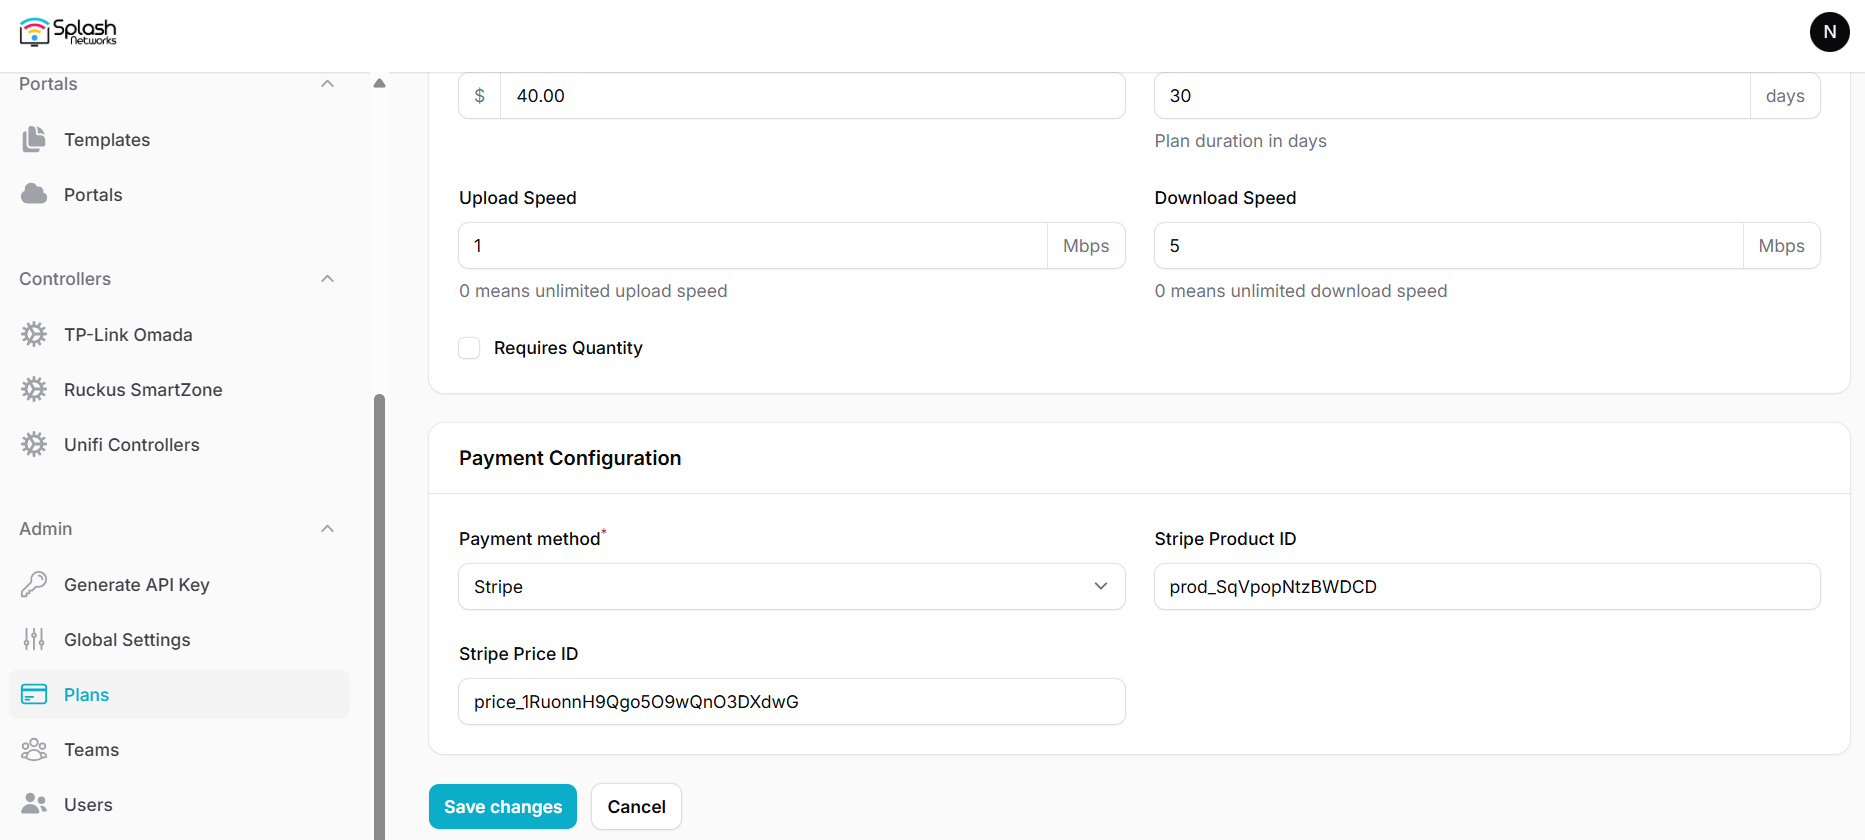
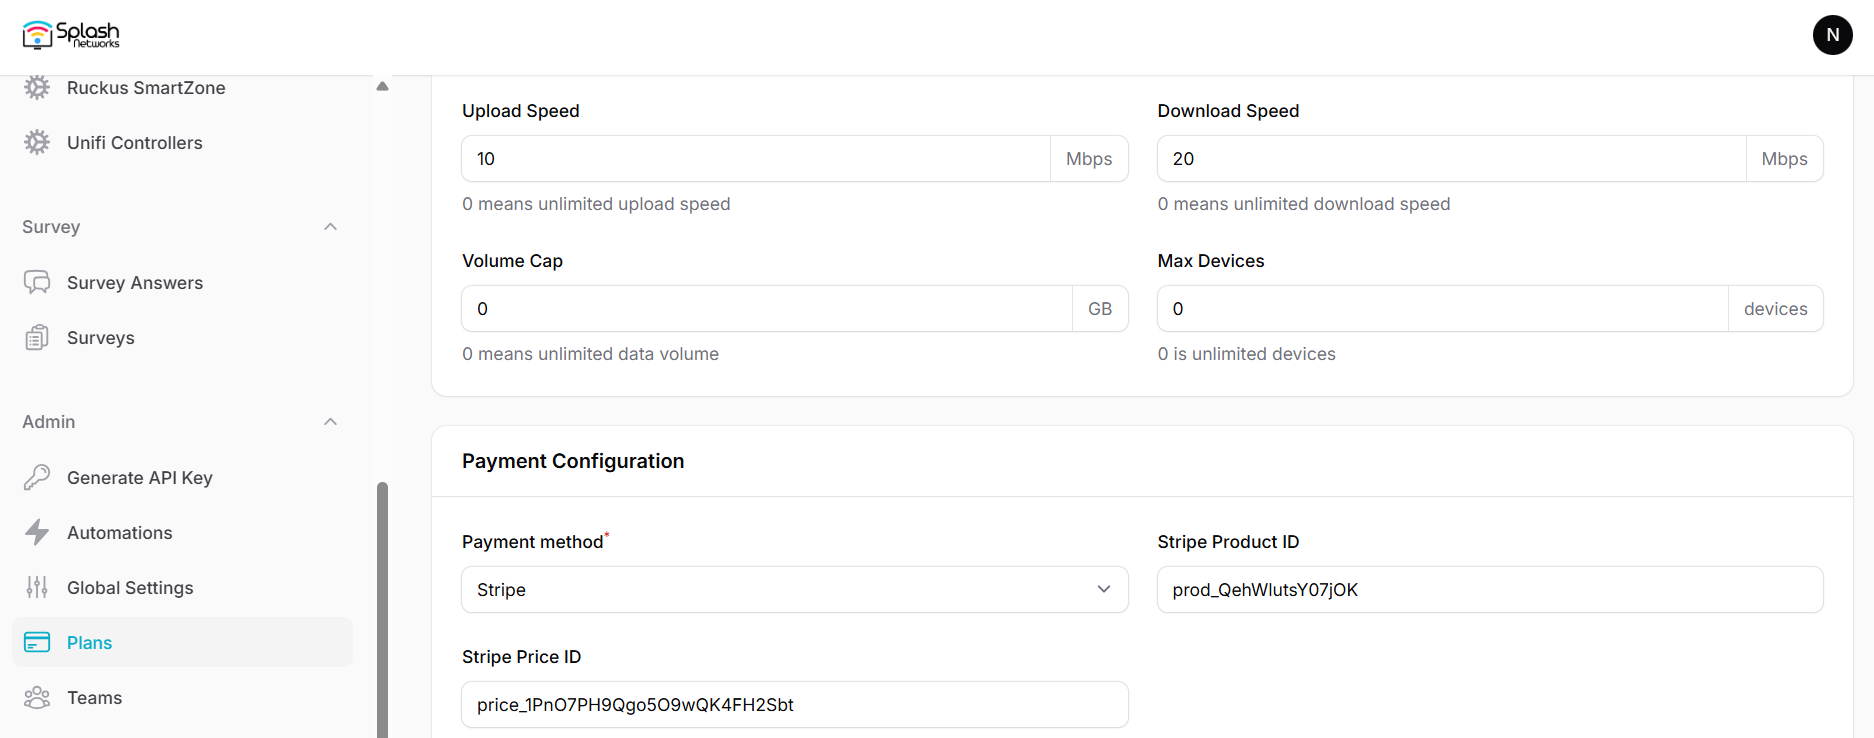
stripe price and product ids

diff --git a/docs/plans.md b/docs/plans.md
@@ -20,8 +20,18 @@ _*Note on volume quota: volume quota is calculated when a user connects. It does
 
 In payment configuration select a payment method such as Stripe. Note that Stripe API keys will need to be configured in [Global Settings](global-settings.md/#payment-gateway).
 
-For Stripe a Product ID and Price ID needs to be added.
+Create a product in Stripe and obtain its product ID:
+
+![Payment Configuration](assets/images/plans/product-id.png)
+
+Click on the price and obtain its price ID:
+
+![Payment Configuration](assets/images/plans/price-id.png)
+
+The product ID and price ID needs to be added in Plan:
 
 ![Payment Configuration](assets/images/plans/payment-configuration.png)
 
 Note: the product needs to have a One-off price. It should not be a subscription.
+
+
